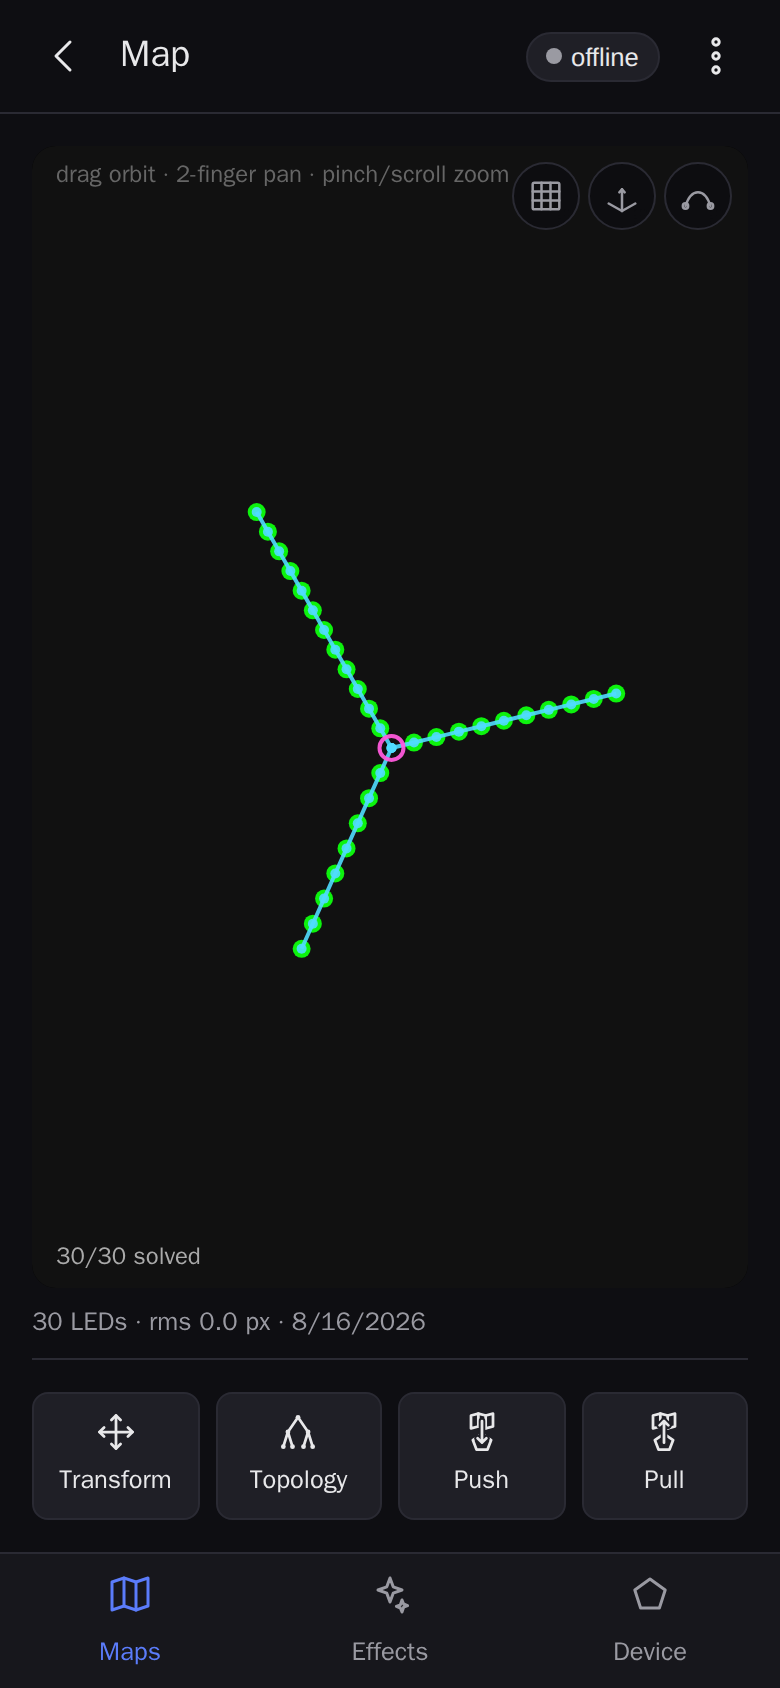
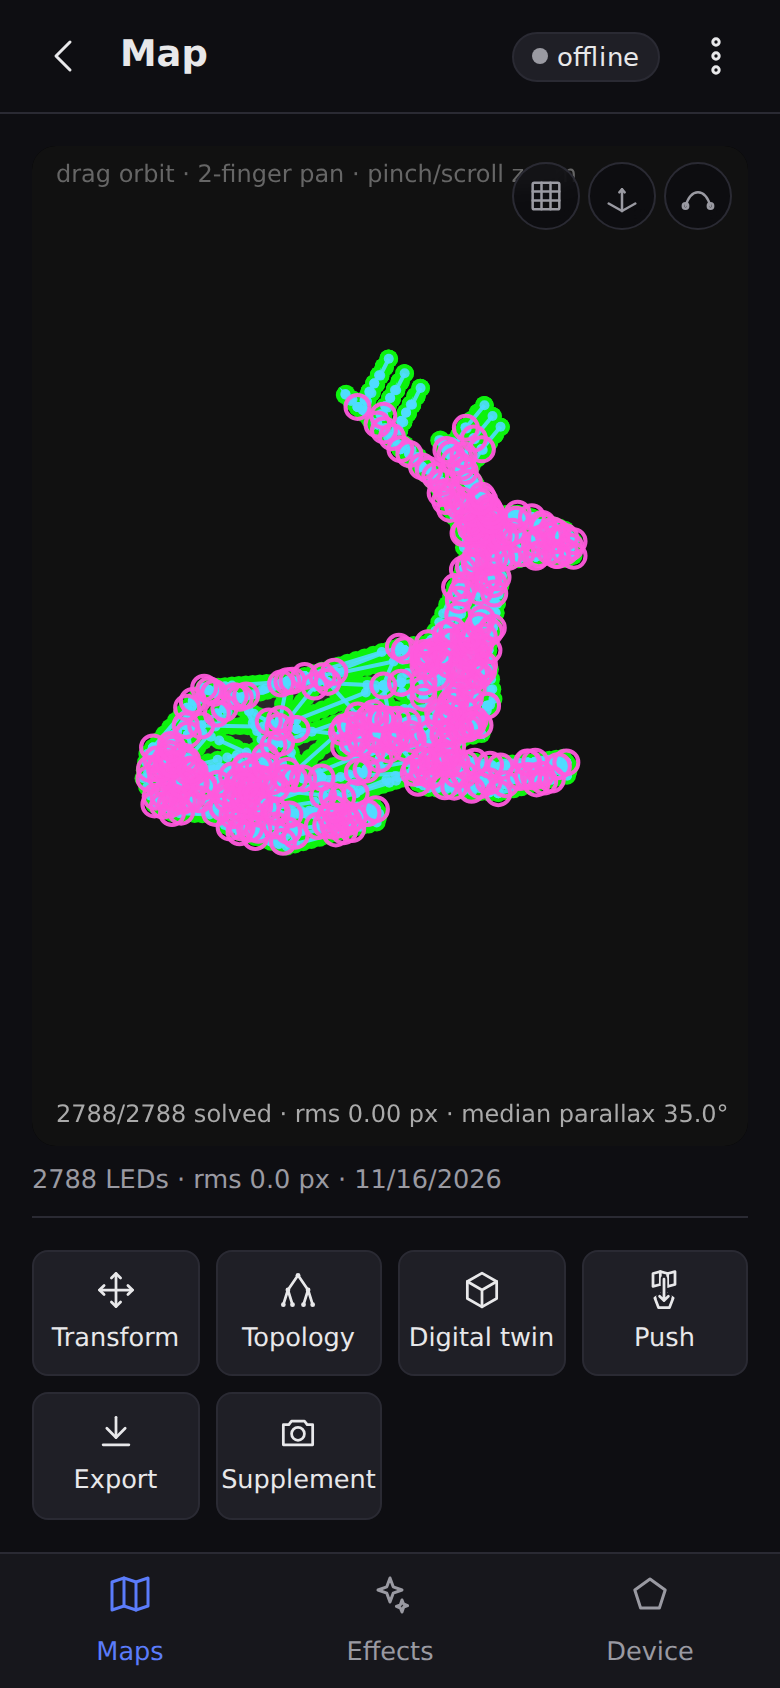
web/map detail: Digital twin as a panel tile, drop Pull
The digital-twin mesh controls were a collapsible card under the action
tiles. They now open from a "Digital twin" tile in the same cluster as
Transform and Topology, as a third mutually-exclusive editor panel, with
every control unchanged (import OBJ/STL, align, show, reset, save,
remove).

Pull is gone from the map detail screen. Copying a device's map into the
library is the Maps tab device card's "Save to this phone" (same pull +
import path), which also offers Preview. Removes pullFromDevice and the
now-unused map-from-device icon; the client/store calls stay, the device
card uses them.

User guide bullet + map-workspace screenshot regenerated.

diff --git a/web/src/ui/screens/mapDetail.ts b/web/src/ui/screens/mapDetail.ts
@@ -1,7 +1,7 @@
 /**
  * Map Detail / mapping workspace (design doc §4.3 / §7.4) — the working surface
  * for a single captured map: inspect the 3D solve, edit + clean the skelgraph
- * topology, send to / pull from a device, jump to Effects, and manage metadata.
+ * topology, align a digital-twin mesh, send to a device, and export.
  *
  * Reuses MapView (3D), topology/extract.ts (unchanged, incl. cooperative
  * AbortSignal + onProgress), and net/client for upload/download. The topology
@@ -109,9 +109,13 @@ export function MapDetailScreen(
   const xformPanel = document.createElement("div");
   xformPanel.className = "detail-topo detail-xform detail-panel";
 
+  // Digital twin (mesh overlay) — filled in load() once the record is known.
+  const meshPanel = document.createElement("div");
+  meshPanel.className = "detail-topo detail-mesh detail-panel";
+
   const panelRegion = document.createElement("div");
   panelRegion.className = "detail-panelregion";
-  panelRegion.append(xformPanel, topoPanel);
+  panelRegion.append(xformPanel, topoPanel, meshPanel);
   // Once the region has fully rolled up (height reached 0), drop scroll mode and
   // release the frozen 3D-view height — deferred to here (not on the toggle) so
   // closing rolls up cleanly instead of the view snapping back mid-animation.
@@ -141,10 +145,12 @@ export function MapDetailScreen(
   let cleanup = 0.5;
   const raw = { ...DEFAULTS };
 
-  // The Transform / Topology action tiles double as mutually-exclusive toggles:
-  // the open panel's tile lights up (accent), and opening one closes the other.
+  // The Transform / Topology / Digital twin action tiles double as mutually-
+  // exclusive toggles: the open panel's tile lights up (accent), and opening one
+  // closes the others.
   let xformTile: HTMLElement | null = null;
   let topoTile: HTMLElement | null = null;
+  let meshTile: HTMLElement | null = null;
   // Topology "Save" (floppy) — greyed until the working topology differs from the
   // one stored in the record. `storedTopoSig` is that record's signature.
   let topoSaveBtn: HTMLButtonElement | null = null;
@@ -301,18 +307,22 @@ export function MapDetailScreen(
     );
 
     // Primary paths — icon+label tiles (like the app's other action grids).
-    // Transform / Topology are toggles (light up when their panel is open);
-    // Push / Pull are one-shot actions. Effects navigation lives in the bottom
-    // tab strip, so it's not repeated here.
+    // Transform / Topology / Digital twin are toggles (light up when their panel
+    // is open); Push is a one-shot action. Copying the device's map into the
+    // library lives on the Maps tab's "On <device>" card (Save to this phone),
+    // which adds a map rather than replacing one. Effects navigation lives in
+    // the bottom tab strip, so it's not repeated here.
     const grid = document.createElement("div");
     grid.className = "k-actiongrid";
     xformTile = actionTile("move", "Transform", toggleXform);
     topoTile = actionTile("tree", "Topology", toggleTopo);
+    meshTile = actionTile("cube", "Digital twin", toggleMesh);
+    meshPanel.append(MeshPanel(mapId, rec.mesh ?? null, (mesh) => view?.setMesh(mesh), () => refreshPanelHeight()));
     grid.append(
       xformTile,
       topoTile,
+      meshTile,
       actionTile("map-to-device", "Push", () => void sendToDevice()),
-      actionTile("map-from-device", "Pull", () => void pullFromDevice()),
       // Export for other show software (TouchDesigner CSV / Chromatik .lxf).
       // Exports what's on screen, including unsaved transform edits.
       actionTile("download", "Export", () => {
@@ -347,7 +357,7 @@ export function MapDetailScreen(
         ),
       );
     }
-    actions.append(grid, MeshPanel(mapId, rec.mesh ?? null, mesh => view?.setMesh(mesh)));
+    actions.append(grid);
     // Calibrate IMU (sensor-core.md §7.3): only offered when the connected
     // fixture reports a running motion sensor.
     // Gated on the device serving the extrinsic calibration (imu_extrinsic), so
@@ -449,7 +459,10 @@ export function MapDetailScreen(
 
   // Only one editor panel is open at a time. Switching crossfades the panels
   // while the region's split divider animates to the new height (roll out / up).
-  let activePanel: "none" | "xform" | "topo" = "none";
+  type PanelId = "none" | "xform" | "topo" | "mesh";
+  let activePanel: PanelId = "none";
+  const panelEl = (which: Exclude<PanelId, "none">): HTMLElement =>
+    which === "xform" ? xformPanel : which === "topo" ? topoPanel : meshPanel;
 
   // Set the region to the active panel's full natural height (absolute panels
   // size to their content) — the region never scrolls internally; the overall
@@ -459,11 +472,10 @@ export function MapDetailScreen(
       panelRegion.style.height = "0px";
       return;
     }
-    const panel = activePanel === "xform" ? xformPanel : topoPanel;
-    panelRegion.style.height = `${panel.scrollHeight}px`;
+    panelRegion.style.height = `${panelEl(activePanel).scrollHeight}px`;
   }
 
-  function setActivePanel(which: "none" | "xform" | "topo"): void {
+  function setActivePanel(which: PanelId): void {
     const wasOpen = activePanel !== "none";
     activePanel = which;
     if (which === "xform" && !xformBuilt) {
@@ -481,11 +493,13 @@ export function MapDetailScreen(
     // Crossfade to the active panel; roll the divider to the new height.
     xformPanel.classList.toggle("detail-panel--show", which === "xform");
     topoPanel.classList.toggle("detail-panel--show", which === "topo");
+    meshPanel.classList.toggle("detail-panel--show", which === "mesh");
     panelRegion.classList.toggle("detail-panelregion--open", which !== "none");
     refreshPanelHeight();
-    // Light up the active toggle tile (Transform / Topology are mutually exclusive).
+    // Light up the active toggle tile (the panels are mutually exclusive).
     xformTile?.classList.toggle("k-actiontile--on", which === "xform");
     topoTile?.classList.toggle("k-actiontile--on", which === "topo");
+    meshTile?.classList.toggle("k-actiontile--on", which === "mesh");
   }
 
   // Open the topology panel (no routing — the /topology route deep-links it on
@@ -498,6 +512,10 @@ export function MapDetailScreen(
   function toggleTopo(): void {
     if (activePanel === "topo") setActivePanel("none");
     else openTopoPanel();
+  }
+
+  function toggleMesh(): void {
+    setActivePanel(activePanel === "mesh" ? "none" : "mesh");
   }
 
   // -- transform tools (translate / rotate / scale + auto-fixes) --------------
@@ -990,24 +1008,6 @@ export function MapDetailScreen(
       toast("Sent to device");
     } catch (e) {
       toast(`Send failed: ${e instanceof Error ? e.message : e}`, { error: true });
-    }
-  }
-
-  async function pullFromDevice(): Promise<void> {
-    const client = appState.client;
-    if (client === null || !client.isConnected) {
-      toast("No device connected", { error: true });
-      openDeviceSheet();
-      return;
-    }
-    try {
-      toast("Pulling map from device…");
-      const bundle = await client.pullStoredMap();
-      const id = await mapStore.importBundleObject(bundle, { source: "pull" });
-      toast("Map pulled from device");
-      router.navigate(`/map/${id}`);
-    } catch (e) {
-      toast(`Pull failed: ${e instanceof Error ? e.message : e}`, { error: true });
     }
   }
 

diff --git a/web/src/ui/screens/meshPanel.ts b/web/src/ui/screens/meshPanel.ts
@@ -2,12 +2,23 @@ import { parseMesh, type MeshOverlay } from "../../geom/mesh";
 import { mapStore } from "../../store/mapStore";
 import { Button, toast } from "../kit";
 
-/** Manual digital-twin alignment; no changes to the measured LED coordinates. */
-export function MeshPanel(id: string, initial: MeshOverlay | null, preview: (mesh: MeshOverlay | null) => void): HTMLElement {
+/**
+ * Manual digital-twin alignment; no changes to the measured LED coordinates.
+ * Returns the panel body: the map detail screen hosts it in its editor-panel
+ * region behind the "Digital twin" tile, beside Transform and Topology.
+ * `onLayout` fires after the content changes height (mesh imported/removed).
+ */
+export function MeshPanel(
+  id: string,
+  initial: MeshOverlay | null,
+  preview: (mesh: MeshOverlay | null) => void,
+  onLayout: () => void = () => {},
+): HTMLElement {
   let mesh = initial ? structuredClone(initial) : null;
-  const panel = document.createElement("details");
-  panel.className = "k-card";
-  const title = document.createElement("summary");
+  const panel = document.createElement("div");
+  panel.className = "mesh-panel";
+  const title = document.createElement("div");
+  title.className = "topo-head";
   title.textContent = "Digital twin · mesh overlay";
   const help = document.createElement("p");
   help.textContent = "Import an OBJ or STL after scanning. Align the gray mesh manually; positions are in meters and rotations in degrees. Materials and colors are ignored. Export the library to include the mesh; device maps contain LEDs and topology only.";
@@ -25,7 +36,7 @@ export function MeshPanel(id: string, initial: MeshOverlay | null, preview: (mes
   };
   function rebuild(): void {
     fields.replaceChildren();
-    if (!mesh) { status.textContent = "No mesh attached"; return; }
+    if (!mesh) { status.textContent = "No mesh attached"; onLayout(); return; }
     status.textContent = `${mesh.name} · ${mesh.triangles.length.toLocaleString()} triangles`;
     for (const key of ["translation", "rotation", "scale"] as const) {
       const count = key === "scale" ? 1 : 3;
@@ -65,6 +76,7 @@ export function MeshPanel(id: string, initial: MeshOverlay | null, preview: (mes
     } }), Button({ label: "Remove mesh", variant: "danger", onClick: () => {
       void mapStore.setMesh(id, null).then(() => { mesh = null; preview(null); rebuild(); }).catch(e => toast(String(e), { error: true }));
     } }));
+    onLayout();
   }
   file.addEventListener("change", () => {
     const selected = file.files?.[0];

diff --git a/web/tests/screenSpace.test.ts b/web/tests/screenSpace.test.ts
@@ -454,6 +454,37 @@ test("opening a Map Detail editor panel keeps the 3D view's size and closing rel
   }
 });
 
+test("Map Detail's Digital twin is a panel tile beside Transform and Topology, and there is no Pull [rr:PR-4]", async () => {
+  const { el, dispose } = await openMapDetail();
+  try {
+    const labels = el.querySelectorAll(".detail-actions .k-actiontile").map((t) => textOf(t));
+    assert.deepEqual(labels.slice(0, 4), ["Transform", "Topology", "Digital twin", "Push"]);
+    assert.ok(!labels.includes("Pull"), "copying the device's map lives on the Maps tab's device card");
+    assert.ok(el.querySelector(".detail-actions details") === null, "no collapsible card under the tiles");
+
+    const tile = (label: string): FakeElement =>
+      el.querySelectorAll(".k-actiontile").find((t) => textOf(t) === label)!;
+    const mesh = el.querySelector(".detail-panelregion > .detail-mesh")!;
+    const xform = el.querySelector(".detail-panelregion > .detail-xform")!;
+    assert.ok(textOf(mesh).includes("Digital twin"), "the mesh controls live in the editor-panel region");
+    assert.ok(!mesh.classList.contains("detail-panel--show"));
+
+    tile("Transform").click();
+    tile("Digital twin").click(); // switching closes Transform
+    assert.ok(mesh.classList.contains("detail-panel--show"));
+    assert.ok(!xform.classList.contains("detail-panel--show"));
+    assert.ok(tile("Digital twin").classList.contains("k-actiontile--on"));
+    assert.ok(!tile("Transform").classList.contains("k-actiontile--on"));
+    assert.ok(el.querySelector(".detail-panelregion")!.classList.contains("detail-panelregion--open"));
+
+    tile("Digital twin").click(); // toggles closed
+    assert.ok(!mesh.classList.contains("detail-panel--show"));
+    assert.ok(!tile("Digital twin").classList.contains("k-actiontile--on"));
+  } finally {
+    dispose();
+  }
+});
+
 // -- app shell ----------------------------------------------------------------------
 
 test("tab-specific actions fold into the app bar's ⋯ menu instead of taking screen space [rr:PR-4]", () => {

diff --git a/web/src/ui/kit/icons.ts b/web/src/ui/kit/icons.ts
@@ -7,7 +7,6 @@
 export type IconName =
   | "device"
   | "map-to-device"
-  | "map-from-device"
   | "effect-to-device"
   | "effect-from-device"
   | "link"
@@ -16,6 +15,7 @@ export type IconName =
   | "map"
   | "graph"
   | "tree"
+  | "cube"
   | "autoscale"
   | "center"
   | "reset"
@@ -87,7 +87,6 @@ const PATHS: Record<IconName, string> = {
   // vertical arrow — pointing DOWN into the device (send) or UP out of it
   // (pull). One consistent design language for send/pull across maps + effects.
   "map-to-device": `${MAP_TOP}${DEVICE_MAP}${cut(MAP_ARROW_DOWN)}`,
-  "map-from-device": `${MAP_TOP}${DEVICE_MAP}${cut(MAP_ARROW_UP)}`,
   "effect-to-device": `${SPARK_TOP}${DEVICE_MAP}${cut(MAP_ARROW_DOWN)}`,
   "effect-from-device": `${SPARK_TOP}${DEVICE_MAP}${cut(MAP_ARROW_UP)}`,
   link: `<path d="M10 13a5 5 0 0 0 7 0l2-2a5 5 0 0 0-7-7l-1 1"/><path d="M14 11a5 5 0 0 0-7 0l-2 2a5 5 0 0 0 7 7l1-1"/>`,
@@ -136,6 +135,8 @@ const PATHS: Record<IconName, string> = {
   folder: `<path d="M3 7a2 2 0 0 1 2-2h3.5l2 2H19a2 2 0 0 1 2 2v8a2 2 0 0 1-2 2H5a2 2 0 0 1-2-2z"/>`,
   chevron: `<path d="M9 6l6 6-6 6"/>`,
   // Four-way move arrows (relocate a pane between regions).
+  // Isometric wireframe cube (the digital-twin mesh overlay).
+  cube: `<path d="M12 2.8 20 7.4V16.6L12 21.2 4 16.6V7.4Z"/><path d="M4 7.4 12 12 20 7.4M12 12V21.2"/>`,
   move: `<path d="M12 3v18M3 12h18"/><path d="M12 3l-2.5 2.5M12 3l2.5 2.5"/><path d="M12 21l-2.5-2.5M12 21l2.5-2.5"/><path d="M3 12l2.5-2.5M3 12l2.5 2.5"/><path d="M21 12l-2.5-2.5M21 12l-2.5 2.5"/>`,
   // 3x3 reference grid (floor overlay toggle).
   grid: `<rect x="4" y="4" width="16" height="16" rx="1"/><path d="M4 9.3h16M4 14.7h16M9.3 4v16M14.7 4v16"/>`,

diff --git a/docs/user-guide/index.html b/docs/user-guide/index.html
@@ -224,7 +224,8 @@
 <ul>
 <li><strong>Inspect the solve</strong> in 3D: orbit, zoom, and auto-scale/recenter the view.</li>
 <li><strong>Edit topology</strong> — the skeleton graph that says which LEDs are neighbors. A single Cleanup knob handles most fixtures; a Fine-tune disclosure exposes the full extraction options.</li>
-<li><strong>Send to / pull from a device</strong> so the fixture and the app agree on the map.</li>
+<li><strong>Push to a device</strong> so the fixture gets this map and its topology. To copy a device's map into your library, use <strong>Save to this phone</strong> on the device card at the top of the Maps tab.</li>
+<li><strong>Digital twin</strong> imports an OBJ or STL mesh of the fixture so you can align it with the LEDs as a gray overlay. It never moves the LEDs.</li>
 <li><strong>Supplement</strong> re-scans part of the fixture and merges the new scan into the map, to fill gaps or improve weak LEDs. If the map kept its raw capture data, weak LEDs are re-solved from both captures. A map without that data (copied from a device, imported, or captured before it was kept) still works: the new scan is aligned to the stored positions and averaged with them.</li>
 <li><strong>Calibrate IMU</strong> (when the connected device's motion sensor is running) aligns the sensor to this map. A map copied from the device works too.</li>
 <li><strong>Jump to Effects</strong> to start animating this fixture.</li>

diff --git a/web/src/ui/guide/catalog.ts b/web/src/ui/guide/catalog.ts
@@ -415,7 +415,11 @@ export const GUIDE_TOPICS: GuideTopic[] = [
           "**Edit topology** — the skeleton graph that says which LEDs are neighbors. A " +
             "single Cleanup knob handles most fixtures; a Fine-tune disclosure exposes " +
             "the full extraction options.",
-          "**Send to / pull from a device** so the fixture and the app agree on the map.",
+          "**Push to a device** so the fixture gets this map and its topology. To copy a " +
+            "device's map into your library, use **Save to this phone** on the device card " +
+            "at the top of the Maps tab.",
+          "**Digital twin** imports an OBJ or STL mesh of the fixture so you can align it " +
+            "with the LEDs as a gray overlay. It never moves the LEDs.",
           "**Supplement** re-scans part of the fixture and merges the new scan into the map, to " +
             "fill gaps or improve weak LEDs. If the map kept its raw capture data, weak LEDs are " +
             "re-solved from both captures. A map without that data (copied from a device, " +

diff --git a/docs/user-guide.md b/docs/user-guide.md
@@ -185,7 +185,10 @@ refine and use the map.
 - **Inspect the solve** in 3D: orbit, zoom, and auto-scale/recenter the view.
 - **Edit topology** — the skeleton graph that says which LEDs are neighbors. A single Cleanup knob
   handles most fixtures; a Fine-tune disclosure exposes the full extraction options.
-- **Send to / pull from a device** so the fixture and the app agree on the map.
+- **Push to a device** so the fixture gets this map and its topology. To copy a device's map into
+  your library, use **Save to this phone** on the device card at the top of the Maps tab.
+- **Digital twin** imports an OBJ or STL mesh of the fixture so you can align it with the LEDs as a
+  gray overlay. It never moves the LEDs.
 - **Supplement** re-scans part of the fixture and merges the new scan into the map, to fill gaps or
   improve weak LEDs. If the map kept its raw capture data, weak LEDs are re-solved from both
   captures. A map without that data (copied from a device, imported, or captured before it was kept)
